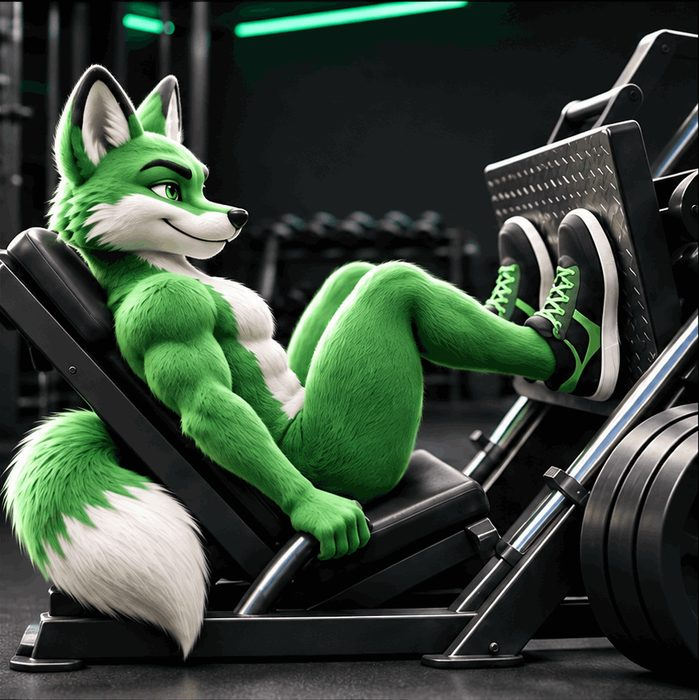
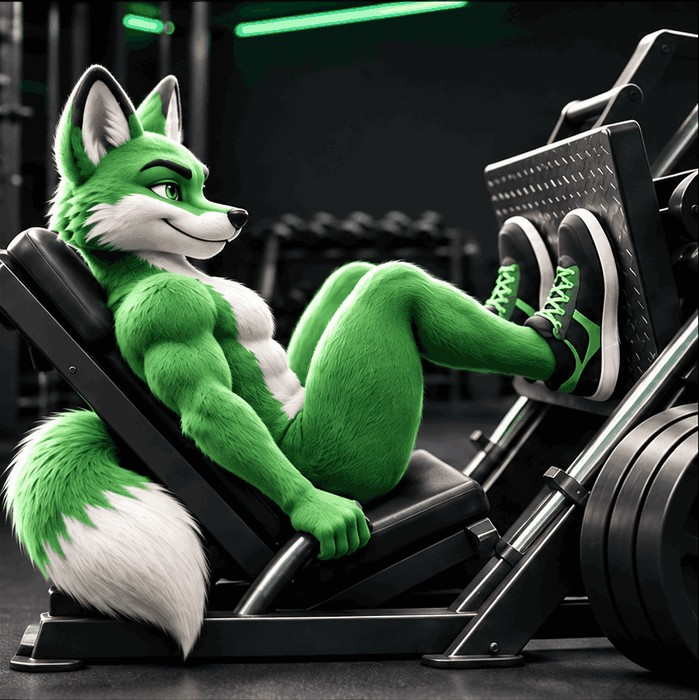
Add files via upload
1.4.1 Nyt kettu tuli kehään ihan oikeasti

diff --git a/index.html b/index.html
@@ -1,4 +1,4 @@
-<!doctype html><html lang="fi"><head><meta charset="utf-8"><meta name="viewport" content="width=device-width,initial-scale=1,viewport-fit=cover"><meta name="theme-color" content="#10151c"><meta name="apple-mobile-web-app-capable" content="yes"><meta name="apple-mobile-web-app-status-bar-style" content="black-translucent"><meta name="apple-mobile-web-app-title" content="Jumppasali 3000"><link rel="manifest" href="manifest.webmanifest"><link rel="apple-touch-icon" href="icon.png"><title>Jumppasali 3000</title><style>:root{color-scheme:dark;font-family:-apple-system,BlinkMacSystemFont,system-ui,sans-serif;background:#0e141c;color:#f1f5f9}*{box-sizing:border-box}body{margin:0;padding:env(safe-area-inset-top) 0 env(safe-area-inset-bottom)}main{max-width:560px;margin:auto;padding:22px 16px 40px}h1{font-size:29px;margin:0}h2{font-size:19px;margin:0 0 12px}.muted{color:#a9b5c4;font-size:13px}.top{display:flex;flex-direction:column;align-items:center;justify-content:center;text-align:center;margin-bottom:16px}.pill{background:#243a32;color:#9aebc1;padding:8px 11px;border-radius:30px;font-size:12px}.tabs{display:flex;gap:8px;margin-bottom:16px}button{font:inherit;cursor:pointer}.tab{flex:1;background:#222c39;color:#dce4ed;border:1px solid #364352;border-radius:12px;padding:13px}.tab.active{background:#23df9b;color:#071b13;font-weight:700;border-color:#23df9b}.card{background:#1a2431;border:1px solid #33465a;border-radius:16px;padding:16px;margin:12px 0}.exercise{display:flex;align-items:start;gap:12px}.num{width:32px;height:32px;display:grid;place-items:center;border-radius:9px;background:#2a3746;font-weight:700;flex-shrink:0}.details{flex:1;min-width:0}.move-image{width:142px;height:112px;object-fit:cover;border:1px solid #354557;border-radius:12px;flex-shrink:0;background:#131d28;cursor:zoom-in}.exercise .small{margin-bottom:0}@media(max-width:420px){.move-image{width:115px;height:108px}.details h3{font-size:16px}.card{padding:13px}.check{min-width:69px}.controls{gap:6px}}@media(max-width:350px){.move-image{width:90px;height:100px}.check{min-width:60px;font-size:12px}}.details h3{margin:0 0 5px;font-size:17px}.controls{display:flex;gap:8px;margin-top:13px;align-items:center}.kg{width:100%;min-width:0;background:#111923;border:1px solid #455365;border-radius:10px;color:white;font-size:16px;padding:11px}.check{min-width:70px;border:1px solid #526174;background:#263342;color:white;border-radius:10px;padding:12px 7px}.check.done{background:#23df9b;color:#082319;border-color:#23df9b;font-weight:700}.progress{height:8px;background:#2a3644;border-radius:10px;overflow:hidden;margin:10px 0 16px}.bar{height:100%;background:#23df9b;width:0%;transition:width .2s}.primary{width:100%;background:#23df9b;color:#062016;border:0;border-radius:12px;padding:15px;font-weight:750;margin:10px 0}.secondary{width:100%;background:#263342;color:white;border:1px solid #455365;border-radius:12px;padding:13px;margin:7px 0}.history{padding:10px 0;border-bottom:1px solid #34404d}.small{font-size:12px;color:#a9b5c4;line-height:1.5}#historyView{display:none}footer{margin-top:22px}.photo-dialog{border:1px solid #4b6276;border-radius:16px;background:#101922;padding:14px;color:#fff;max-width:min(94vw,760px)}.photo-dialog::backdrop{background:rgba(0,0,0,.84)}.photo-dialog img{display:block;width:100%;height:auto;max-height:70vh;object-fit:contain;border-radius:10px}.photo-dialog button{float:right;background:#263342;border:1px solid #455365;color:white;padding:9px 14px;border-radius:9px;margin-bottom:10px}label{display:block}.brand-logo{display:block;width:240px;max-width:72vw;height:auto;border-radius:0;margin:0 auto}.top{gap:12px;margin-bottom:12px}.top>div{min-width:0;width:100%}.pill{white-space:nowrap;align-self:center}.welcome{font-size:14px;color:#b4c4d2;margin:3px 0 12px}.welcome:empty{display:none}.tabs .tab{padding:12px 5px}.tab:focus-visible,button:focus-visible,input:focus-visible{outline:2px solid #92ffd0;outline-offset:2px}@media(max-width:380px){.brand-logo{width:210px}.pill{font-size:10px;padding:7px}.tabs{gap:5px}} .move-image-button{display:block;flex-shrink:0;position:relative;border:0;background:none;padding:0;border-radius:12px;line-height:0;cursor:zoom-in}.move-image-button .move-image{display:block}.move-image-button:focus-visible{outline:2px solid #9affd0;outline-offset:3px}.media-indicator{position:absolute;right:6px;bottom:7px;background:rgba(7,18,22,.85);color:#c6ffe7;border-radius:6px;padding:5px 7px;font-size:11px;font-weight:650;line-height:1.2}.photo-dialog{width:min(94vw,780px);max-height:90dvh;overflow:auto;box-sizing:border-box}.modal-heading{font-weight:750;margin:4px 0 12px;font-size:17px}.modal-caption{font-size:13px;color:#acbdc9;line-height:1.45;padding:10px 0 2px;clear:both}.photo-dialog img{width:100%;object-fit:contain;max-height:min(65dvh,620px)}@media(prefers-reduced-motion:reduce){.bar{transition:none}}</style></head><body><main><header class="top"><div><h1><img class="brand-logo" src="logo.png" alt="Jumppasali 3000"></h1></div><span class="pill">Versio 1.4</span></header><div class="tabs"><button class="tab active" id="trainTab">Treeni</button><button class="tab" id="historyTab">Historia</button><button class="tab" id="settingsTab">Asetukset</button></div><div class="welcome" id="welcome" aria-live="polite"></div><section id="trainView"><div class="card"><h2>Koko kroppa</h2><p class="muted">2 kertaa viikossa · 45–55 min · vähintään 48 h palautumista</p><p class="small">Lämmittely: 5–8 min kuntopyörää tai kävelyä ja kevyt harjoitussarja. Pidä 90–120 s tauko sarjojen välillä. Aloita kevyesti, jätä 3–4 toistoa varaa.</p><div class="muted" id="progressText">0/14 sarjaa</div><div class="progress"><div class="bar" id="bar"></div></div></div><div id="exercises"></div><button class="primary" id="save">Tallenna treeni historiaan</button><button class="secondary" id="reset">Tyhjennä tämän treenin merkinnät</button><p class="small">Harjoittele omien edellytystesi mukaan. Jos sinulla on sairaus, vamma tai liikuntaan liittyviä rajoituksia, varmista sopiva kuormitus terveydenhuollosta. Älä pidätä hengitystä nostoissa.</p></section><section id="historyView"><div class="card"><h2>Treenihistoria</h2><p class="small">Tiedot tallentuvat tämän laitteen selaimeen. Selaintietojen poistaminen voi hävittää ne.</p><div id="history"></div><button class="secondary" id="export">Vie varmuuskopio (JSON)</button><button class="secondary" id="import">Tuo varmuuskopio (JSON)</button><input id="importFile" type="file" accept=".json,application/json" hidden></div></section><section id="settingsView" style="display:none"><div class="card"><h2>Omat asetukset</h2><label for="nickname" class="small">Millä nimellä sinua kutsutaan? (valinnainen)</label><input id="nickname" class="kg" type="text" autocomplete="nickname" maxlength="30" placeholder="Etu- tai kutsumanimi"><p class="small">Nimi tallennetaan vain tähän selaimeen. Voit vaihtaa tai poistaa sen koska tahansa.</p><button class="primary" id="saveName">Tallenna nimi</button><button class="secondary" id="clearName">Poista nimi</button></div><div class="card"><h2>Tietosi</h2><p class="small">Treenit ja nimi tallentuvat omalle laitteellesi. Vie varmuuskopio Historia-välilehdeltä ennen selaintietojen poistamista tai puhelimen vaihtoa.</p><button class="secondary" id="deleteAll">Poista kaikki tämän sovelluksen tallentamat tiedot</button></div></section><footer class="small">Treenit tallennetaan vain tähän selaimeen. Kirjautumista ei tarvita. Varmuuskopioi tiedot säännöllisesti.</footer></main><dialog class="photo-dialog" id="photoDialog" aria-labelledby="modalTitle"><button id="closePhoto" type="button">Sulje ✕</button><h2 class="modal-heading" id="modalTitle"></h2><img id="largePhoto" alt="Liikkeen kuva suurempana"><p class="modal-caption" id="modalCaption"></p></dialog><script>const moves=[['Jalkaprässi','10–12','Jalat ja pakarat. Älä lukitse polvia.'],['Rintaprässi','8–12','Rinta ja ojentajat. Penkkipunnerrus vaihtoehtona.'],['Ylätalja','10–12','Vedä hallitusti rinnan yläosaan.'],['Alataljasoutu','10–12','Pidä selkä neutraalina.'],['Reiden koukistus','10–12','Liikuta painoa rauhallisesti.'],['Olkapääprässi','10–12','Aloita erityisen kevyesti.'],['Vatsarutistus laitteessa','12–15','Älä pidätä hengitystä.']];const KEY='mikon-sali-v1';const PROFILE_KEY='jumppasali-3000-profile-v1';let state;try{state=JSON.parse(localStorage.getItem(KEY))||{draft:{},history:[]};if(!state||typeof state!=='object'||!state.draft||typeof state.draft!=='object'||!Array.isArray(state.history))throw Error('invalid')}catch{state={draft:{},history:[]}};function persist(){try{localStorage.setItem(KEY,JSON.stringify(state))}catch(e){alert('Tallennus epäonnistui. Tarkista selaimen tallennustila.')}}function render(){let html='';moves.forEach((m,i)=>{let d=state.draft[i]||{};html+=`<article class="card"><div class="exercise"><div class="num">${i+1}</div><div class="details"><h3>${m[0]}</h3><div class="muted">2 × ${m[1]} toistoa</div><p class="small">${m[2]}</p></div><button type="button" class="move-image-button" data-photo="${i}" aria-label="Avaa liikkeen ${m[0]} ${i<3?'animaatio':'kuva'} suurempana"><img class="move-image" src="liike-${i+1}.jpg" alt="${m[0]}" loading="lazy"><span class="media-indicator">${i<3?'▶ Liike':'＋ Kuva'}</span></button></div><div class="controls"><label style="flex:1"><span class="small">Paino (kg)</span><input class="kg" type="number" inputmode="decimal" min="0" step="0.5" data-i="${i}" value="${Number.isFinite(Number(d.kg)) && String(d.kg??'').trim()!=='' ? Math.max(0,Math.min(9999,Number(d.kg))) : ''}" placeholder="kg"></label><button class="check ${d.s1?'done':''}" data-i="${i}" data-s="s1">Sarja 1 ${d.s1?'✓':''}</button><button class="check ${d.s2?'done':''}" data-i="${i}" data-s="s2">Sarja 2 ${d.s2?'✓':''}</button></div></article>`});document.getElementById('exercises').innerHTML=html;const done=Object.values(state.draft).reduce((n,d)=>n+!!d.s1+!!d.s2,0);document.getElementById('progressText').textContent=`${done}/14 sarjaa`;document.getElementById('bar').style.width=(done/14*100)+'%';document.querySelectorAll('#exercises input.kg[data-i]').forEach(el=>el.addEventListener('input',()=>{let i=el.dataset.i;state.draft[i]??={};state.draft[i].kg=el.value;persist()}));document.querySelectorAll('.check').forEach(el=>el.addEventListener('click',()=>{let i=el.dataset.i,s=el.dataset.s;state.draft[i]??={};state.draft[i][s]=!state.draft[i][s];persist();render()}))}function history(){let el=document.getElementById('history');el.innerHTML=state.history.length?'':'<p class="muted">Ei vielä tallennettuja treenejä.</p>';state.history.slice().reverse().forEach(h=>{let div=document.createElement('div');div.className='history';let title=document.createElement('strong');title.textContent=new Date(h.date).toLocaleString('fi-FI');div.append(title);let detail=document.createElement('div');detail.className='small';detail.textContent=`${h.done}/14 sarjaa · `+moves.map((m,i)=>h.draft[i]?.kg?`${m[0]} ${h.draft[i].kg} kg`:null).filter(Boolean).join(' · ');div.append(detail);el.append(div)})}document.getElementById('save').onclick=()=>{let done=Object.values(state.draft).reduce((n,d)=>n+!!d.s1+!!d.s2,0);if(!done&&!confirm('Et ole kuitannut yhtään sarjaa. Tallennetaanko silti?'))return;state.history.push({date:new Date().toISOString(),done,draft:structuredClone(state.draft)});state.draft={};persist();render();history();alert('Treeni tallennettu!')};document.getElementById('reset').onclick=()=>{if(confirm('Tyhjennetäänkö tämän treenin merkinnät?')){state.draft={};persist();render()}};function show(which){for(const view of ['train','history','settings']){const active=which===view;document.getElementById(view+'View').style.display=active?'block':'none';document.getElementById(view+'Tab').classList.toggle('active',active)}if(which==='history')history()}document.getElementById('trainTab').onclick=()=>show('train');document.getElementById('historyTab').onclick=()=>show('history');document.getElementById('settingsTab').onclick=()=>show('settings');document.getElementById('export').onclick=()=>{let blob=new Blob([JSON.stringify(state,null,2)],{type:'application/json'});let a=document.createElement('a');a.href=URL.createObjectURL(blob);a.download='jumppasali-3000-varmuuskopio.json';a.click();setTimeout(()=>URL.revokeObjectURL(a.href),1000)};document.getElementById('exercises').addEventListener('click',e=>{const b=e.target.closest('.move-image-button');if(!b)return;const i=Number(b.dataset.photo);if(!Number.isInteger(i)||i<0||i>=moves.length)return;const animated=i<3;const p=document.getElementById('largePhoto');document.getElementById('modalTitle').textContent=moves[i][0];document.getElementById('modalCaption').textContent=animated?'Kaksi asentoa vuorottelee. Havainnekuva – noudata laitteen omaa ohjetta ja hallittua liikerataa.':'Tämän liikkeen animaatio lisätään myöhemmin. Havainnekuva – noudata laitteen omaa ohjetta.';p.alt=moves[i][0]+(animated?' – kaksi liikeasentoa':' – liikekuva');p.src='liike-'+(i+1)+(animated?'.gif':'.jpg');document.getElementById('photoDialog').showModal()});document.getElementById('closePhoto').onclick=()=>document.getElementById('photoDialog').close();document.getElementById('photoDialog').addEventListener('close',()=>{document.getElementById('largePhoto').removeAttribute('src')});document.getElementById('photoDialog').onclick=e=>{if(e.target.id==='photoDialog')e.target.close()};function cleanName(input){return String(input).normalize('NFC').replace(/[\u0000-\u001f\u007f-\u009f\u202a-\u202e\u2066-\u2069<>]/g,'').trim().slice(0,30)}
+<!doctype html><html lang="fi"><head><meta charset="utf-8"><meta name="viewport" content="width=device-width,initial-scale=1,viewport-fit=cover"><meta name="theme-color" content="#10151c"><meta name="apple-mobile-web-app-capable" content="yes"><meta name="apple-mobile-web-app-status-bar-style" content="black-translucent"><meta name="apple-mobile-web-app-title" content="Jumppasali 3000"><link rel="manifest" href="manifest.webmanifest"><link rel="apple-touch-icon" href="icon.png"><title>Jumppasali 3000</title><style>:root{color-scheme:dark;font-family:-apple-system,BlinkMacSystemFont,system-ui,sans-serif;background:#0e141c;color:#f1f5f9}*{box-sizing:border-box}body{margin:0;padding:env(safe-area-inset-top) 0 env(safe-area-inset-bottom)}main{max-width:560px;margin:auto;padding:22px 16px 40px}h1{font-size:29px;margin:0}h2{font-size:19px;margin:0 0 12px}.muted{color:#a9b5c4;font-size:13px}.top{display:flex;flex-direction:column;align-items:center;justify-content:center;text-align:center;margin-bottom:16px}.pill{background:#243a32;color:#9aebc1;padding:8px 11px;border-radius:30px;font-size:12px}.tabs{display:flex;gap:8px;margin-bottom:16px}button{font:inherit;cursor:pointer}.tab{flex:1;background:#222c39;color:#dce4ed;border:1px solid #364352;border-radius:12px;padding:13px}.tab.active{background:#23df9b;color:#071b13;font-weight:700;border-color:#23df9b}.card{background:#1a2431;border:1px solid #33465a;border-radius:16px;padding:16px;margin:12px 0}.exercise{display:flex;align-items:start;gap:12px}.num{width:32px;height:32px;display:grid;place-items:center;border-radius:9px;background:#2a3746;font-weight:700;flex-shrink:0}.details{flex:1;min-width:0}.move-image{width:142px;height:112px;object-fit:cover;border:1px solid #354557;border-radius:12px;flex-shrink:0;background:#131d28;cursor:zoom-in}.exercise .small{margin-bottom:0}@media(max-width:420px){.move-image{width:115px;height:108px}.details h3{font-size:16px}.card{padding:13px}.check{min-width:69px}.controls{gap:6px}}@media(max-width:350px){.move-image{width:90px;height:100px}.check{min-width:60px;font-size:12px}}.details h3{margin:0 0 5px;font-size:17px}.controls{display:flex;gap:8px;margin-top:13px;align-items:center}.kg{width:100%;min-width:0;background:#111923;border:1px solid #455365;border-radius:10px;color:white;font-size:16px;padding:11px}.check{min-width:70px;border:1px solid #526174;background:#263342;color:white;border-radius:10px;padding:12px 7px}.check.done{background:#23df9b;color:#082319;border-color:#23df9b;font-weight:700}.progress{height:8px;background:#2a3644;border-radius:10px;overflow:hidden;margin:10px 0 16px}.bar{height:100%;background:#23df9b;width:0%;transition:width .2s}.primary{width:100%;background:#23df9b;color:#062016;border:0;border-radius:12px;padding:15px;font-weight:750;margin:10px 0}.secondary{width:100%;background:#263342;color:white;border:1px solid #455365;border-radius:12px;padding:13px;margin:7px 0}.history{padding:10px 0;border-bottom:1px solid #34404d}.small{font-size:12px;color:#a9b5c4;line-height:1.5}#historyView{display:none}footer{margin-top:22px}.photo-dialog{border:1px solid #4b6276;border-radius:16px;background:#101922;padding:14px;color:#fff;max-width:min(94vw,760px)}.photo-dialog::backdrop{background:rgba(0,0,0,.84)}.photo-dialog img{display:block;width:100%;height:auto;max-height:70vh;object-fit:contain;border-radius:10px}.photo-dialog button{float:right;background:#263342;border:1px solid #455365;color:white;padding:9px 14px;border-radius:9px;margin-bottom:10px}label{display:block}.brand-logo{display:block;width:240px;max-width:72vw;height:auto;border-radius:0;margin:0 auto}.top{gap:12px;margin-bottom:12px}.top>div{min-width:0;width:100%}.pill{white-space:nowrap;align-self:center}.welcome{font-size:14px;color:#b4c4d2;margin:3px 0 12px}.welcome:empty{display:none}.tabs .tab{padding:12px 5px}.tab:focus-visible,button:focus-visible,input:focus-visible{outline:2px solid #92ffd0;outline-offset:2px}@media(max-width:380px){.brand-logo{width:210px}.pill{font-size:10px;padding:7px}.tabs{gap:5px}} .move-image-button{display:block;flex-shrink:0;position:relative;border:0;background:none;padding:0;border-radius:12px;line-height:0;cursor:zoom-in}.move-image-button .move-image{display:block}.move-image-button:focus-visible{outline:2px solid #9affd0;outline-offset:3px}.media-indicator{position:absolute;right:6px;bottom:7px;background:rgba(7,18,22,.85);color:#c6ffe7;border-radius:6px;padding:5px 7px;font-size:11px;font-weight:650;line-height:1.2}.photo-dialog{width:min(94vw,780px);max-height:90dvh;overflow:auto;box-sizing:border-box}.modal-heading{font-weight:750;margin:4px 0 12px;font-size:17px}.modal-caption{font-size:13px;color:#acbdc9;line-height:1.45;padding:10px 0 2px;clear:both}.photo-dialog img{width:100%;object-fit:contain;max-height:min(65dvh,620px)}@media(prefers-reduced-motion:reduce){.bar{transition:none}}</style></head><body><main><header class="top"><div><h1><img class="brand-logo" src="logo.png" alt="Jumppasali 3000"></h1></div><span class="pill">Versio 1.4.1</span></header><div class="tabs"><button class="tab active" id="trainTab">Treeni</button><button class="tab" id="historyTab">Historia</button><button class="tab" id="settingsTab">Asetukset</button></div><div class="welcome" id="welcome" aria-live="polite"></div><section id="trainView"><div class="card"><h2>Koko kroppa</h2><p class="muted">2 kertaa viikossa · 45–55 min · vähintään 48 h palautumista</p><p class="small">Lämmittely: 5–8 min kuntopyörää tai kävelyä ja kevyt harjoitussarja. Pidä 90–120 s tauko sarjojen välillä. Aloita kevyesti, jätä 3–4 toistoa varaa.</p><div class="muted" id="progressText">0/14 sarjaa</div><div class="progress"><div class="bar" id="bar"></div></div></div><div id="exercises"></div><button class="primary" id="save">Tallenna treeni historiaan</button><button class="secondary" id="reset">Tyhjennä tämän treenin merkinnät</button><p class="small">Harjoittele omien edellytystesi mukaan. Jos sinulla on sairaus, vamma tai liikuntaan liittyviä rajoituksia, varmista sopiva kuormitus terveydenhuollosta. Älä pidätä hengitystä nostoissa.</p></section><section id="historyView"><div class="card"><h2>Treenihistoria</h2><p class="small">Tiedot tallentuvat tämän laitteen selaimeen. Selaintietojen poistaminen voi hävittää ne.</p><div id="history"></div><button class="secondary" id="export">Vie varmuuskopio (JSON)</button><button class="secondary" id="import">Tuo varmuuskopio (JSON)</button><input id="importFile" type="file" accept=".json,application/json" hidden></div></section><section id="settingsView" style="display:none"><div class="card"><h2>Omat asetukset</h2><label for="nickname" class="small">Millä nimellä sinua kutsutaan? (valinnainen)</label><input id="nickname" class="kg" type="text" autocomplete="nickname" maxlength="30" placeholder="Etu- tai kutsumanimi"><p class="small">Nimi tallennetaan vain tähän selaimeen. Voit vaihtaa tai poistaa sen koska tahansa.</p><button class="primary" id="saveName">Tallenna nimi</button><button class="secondary" id="clearName">Poista nimi</button></div><div class="card"><h2>Tietosi</h2><p class="small">Treenit ja nimi tallentuvat omalle laitteellesi. Vie varmuuskopio Historia-välilehdeltä ennen selaintietojen poistamista tai puhelimen vaihtoa.</p><button class="secondary" id="deleteAll">Poista kaikki tämän sovelluksen tallentamat tiedot</button></div></section><footer class="small">Treenit tallennetaan vain tähän selaimeen. Kirjautumista ei tarvita. Varmuuskopioi tiedot säännöllisesti.</footer></main><dialog class="photo-dialog" id="photoDialog" aria-labelledby="modalTitle"><button id="closePhoto" type="button">Sulje ✕</button><h2 class="modal-heading" id="modalTitle"></h2><img id="largePhoto" alt="Liikkeen kuva suurempana"><p class="modal-caption" id="modalCaption"></p></dialog><script>const moves=[['Jalkaprässi','10–12','Jalat ja pakarat. Älä lukitse polvia.'],['Rintaprässi','8–12','Rinta ja ojentajat. Penkkipunnerrus vaihtoehtona.'],['Ylätalja','10–12','Vedä hallitusti rinnan yläosaan.'],['Alataljasoutu','10–12','Pidä selkä neutraalina.'],['Reiden koukistus','10–12','Liikuta painoa rauhallisesti.'],['Olkapääprässi','10–12','Aloita erityisen kevyesti.'],['Vatsarutistus laitteessa','12–15','Älä pidätä hengitystä.']];const KEY='mikon-sali-v1';const PROFILE_KEY='jumppasali-3000-profile-v1';let state;try{state=JSON.parse(localStorage.getItem(KEY))||{draft:{},history:[]};if(!state||typeof state!=='object'||!state.draft||typeof state.draft!=='object'||!Array.isArray(state.history))throw Error('invalid')}catch{state={draft:{},history:[]}};function persist(){try{localStorage.setItem(KEY,JSON.stringify(state))}catch(e){alert('Tallennus epäonnistui. Tarkista selaimen tallennustila.')}}function render(){let html='';moves.forEach((m,i)=>{let d=state.draft[i]||{};html+=`<article class="card"><div class="exercise"><div class="num">${i+1}</div><div class="details"><h3>${m[0]}</h3><div class="muted">2 × ${m[1]} toistoa</div><p class="small">${m[2]}</p></div><button type="button" class="move-image-button" data-photo="${i}" aria-label="Avaa liikkeen ${m[0]} ${i<3?'animaatio':'kuva'} suurempana"><img class="move-image" src="liike-${i+1}.jpg" alt="${m[0]}" loading="lazy"><span class="media-indicator">${i<3?'▶ Liike':'＋ Kuva'}</span></button></div><div class="controls"><label style="flex:1"><span class="small">Paino (kg)</span><input class="kg" type="number" inputmode="decimal" min="0" step="0.5" data-i="${i}" value="${Number.isFinite(Number(d.kg)) && String(d.kg??'').trim()!=='' ? Math.max(0,Math.min(9999,Number(d.kg))) : ''}" placeholder="kg"></label><button class="check ${d.s1?'done':''}" data-i="${i}" data-s="s1">Sarja 1 ${d.s1?'✓':''}</button><button class="check ${d.s2?'done':''}" data-i="${i}" data-s="s2">Sarja 2 ${d.s2?'✓':''}</button></div></article>`});document.getElementById('exercises').innerHTML=html;const done=Object.values(state.draft).reduce((n,d)=>n+!!d.s1+!!d.s2,0);document.getElementById('progressText').textContent=`${done}/14 sarjaa`;document.getElementById('bar').style.width=(done/14*100)+'%';document.querySelectorAll('#exercises input.kg[data-i]').forEach(el=>el.addEventListener('input',()=>{let i=el.dataset.i;state.draft[i]??={};state.draft[i].kg=el.value;persist()}));document.querySelectorAll('.check').forEach(el=>el.addEventListener('click',()=>{let i=el.dataset.i,s=el.dataset.s;state.draft[i]??={};state.draft[i][s]=!state.draft[i][s];persist();render()}))}function history(){let el=document.getElementById('history');el.innerHTML=state.history.length?'':'<p class="muted">Ei vielä tallennettuja treenejä.</p>';state.history.slice().reverse().forEach(h=>{let div=document.createElement('div');div.className='history';let title=document.createElement('strong');title.textContent=new Date(h.date).toLocaleString('fi-FI');div.append(title);let detail=document.createElement('div');detail.className='small';detail.textContent=`${h.done}/14 sarjaa · `+moves.map((m,i)=>h.draft[i]?.kg?`${m[0]} ${h.draft[i].kg} kg`:null).filter(Boolean).join(' · ');div.append(detail);el.append(div)})}document.getElementById('save').onclick=()=>{let done=Object.values(state.draft).reduce((n,d)=>n+!!d.s1+!!d.s2,0);if(!done&&!confirm('Et ole kuitannut yhtään sarjaa. Tallennetaanko silti?'))return;state.history.push({date:new Date().toISOString(),done,draft:structuredClone(state.draft)});state.draft={};persist();render();history();alert('Treeni tallennettu!')};document.getElementById('reset').onclick=()=>{if(confirm('Tyhjennetäänkö tämän treenin merkinnät?')){state.draft={};persist();render()}};function show(which){for(const view of ['train','history','settings']){const active=which===view;document.getElementById(view+'View').style.display=active?'block':'none';document.getElementById(view+'Tab').classList.toggle('active',active)}if(which==='history')history()}document.getElementById('trainTab').onclick=()=>show('train');document.getElementById('historyTab').onclick=()=>show('history');document.getElementById('settingsTab').onclick=()=>show('settings');document.getElementById('export').onclick=()=>{let blob=new Blob([JSON.stringify(state,null,2)],{type:'application/json'});let a=document.createElement('a');a.href=URL.createObjectURL(blob);a.download='jumppasali-3000-varmuuskopio.json';a.click();setTimeout(()=>URL.revokeObjectURL(a.href),1000)};document.getElementById('exercises').addEventListener('click',e=>{const b=e.target.closest('.move-image-button');if(!b)return;const i=Number(b.dataset.photo);if(!Number.isInteger(i)||i<0||i>=moves.length)return;const animated=i<3;const p=document.getElementById('largePhoto');document.getElementById('modalTitle').textContent=moves[i][0];document.getElementById('modalCaption').textContent=animated?'Kaksi asentoa vuorottelee. Havainnekuva – noudata laitteen omaa ohjetta ja hallittua liikerataa.':'Tämän liikkeen animaatio lisätään myöhemmin. Havainnekuva – noudata laitteen omaa ohjetta.';p.alt=moves[i][0]+(animated?' – kaksi liikeasentoa':' – liikekuva');p.src='liike-'+(i+1)+(animated?'.gif':'.jpg');document.getElementById('photoDialog').showModal()});document.getElementById('closePhoto').onclick=()=>document.getElementById('photoDialog').close();document.getElementById('photoDialog').addEventListener('close',()=>{document.getElementById('largePhoto').removeAttribute('src')});document.getElementById('photoDialog').onclick=e=>{if(e.target.id==='photoDialog')e.target.close()};function cleanName(input){return String(input).normalize('NFC').replace(/[\u0000-\u001f\u007f-\u009f\u202a-\u202e\u2066-\u2069<>]/g,'').trim().slice(0,30)}
 let nickname='';try{nickname=cleanName(localStorage.getItem(PROFILE_KEY)||'')}catch{}
 function greet(){const el=document.getElementById('welcome');el.textContent=nickname?'Moi '+nickname+'!':'Tervetuloa treenaamaan!';document.getElementById('nickname').value=nickname}
 document.getElementById('saveName').onclick=()=>{const next=cleanName(document.getElementById('nickname').value);nickname=next;try{if(next)localStorage.setItem(PROFILE_KEY,next);else localStorage.removeItem(PROFILE_KEY);greet();alert(next?'Nimi tallennettu.':'Nimi poistettu.')}catch{alert('Nimen tallennus epäonnistui.')}};
